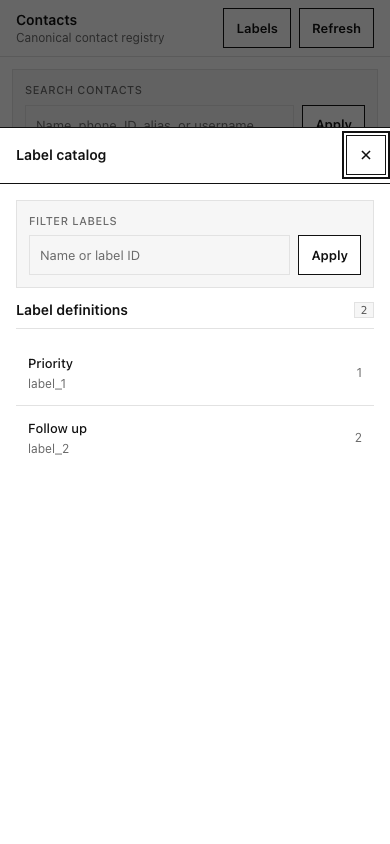
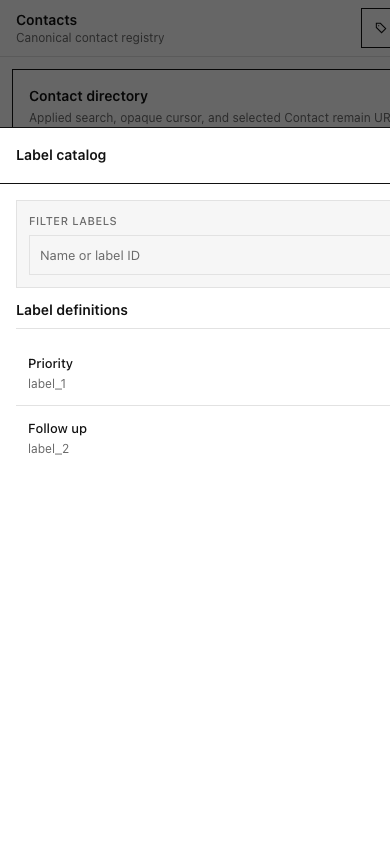
fix: restore labeled refresh actions

diff --git a/src/app/UiGallery.tsx b/src/app/UiGallery.tsx
@@ -205,7 +205,7 @@ export function UiGallery() {
           eyebrow="Locked design system"
           title="UI Gallery"
           description="Manga · ink on white paper · dense · square · semantic screentone · hard lift only."
-          secondaryActions={<IconButton icon="refresh" label="Refresh UI Gallery" />}
+          secondaryActions={<Button>Refresh</Button>}
           primaryAction={<Button variant="primary">Primary action</Button>}
         />
 
@@ -267,11 +267,10 @@ export function UiGallery() {
             <Button aria-busy>Working…</Button>
             <ButtonLink to="/__ui">Button link</ButtonLink>
             <CloseButton label="Close example" onClick={() => undefined} />
-            <IconButton icon="refresh" label="Refresh example" />
             <IconButton icon="search" label="Search example" />
             <IconButton icon="panel-right" label="Open details example" />
             <IconButton icon="copy" label="Copy example" />
-            <IconButton icon="refresh" label="Refreshing example" busy />
+            <Button aria-busy>Refreshing…</Button>
             <Button onClick={() => setDrawer(true)}>Open drawer</Button>
             <Button onClick={() => setDialogMode('ready')}>Open dialog</Button>
             <Button onClick={() => setDialogMode('pending')}>Pending dialog</Button>
@@ -579,11 +578,11 @@ export function UiGallery() {
               eyebrow="Messaging"
               title={<span className="inline-flex items-center gap-2">Conversations<CountBadge count={217} /></span>}
               description="Review projected history and submit outbound messages."
-              secondaryActions={<IconButton icon="refresh" label="Refresh conversations" />}
+              secondaryActions={<Button>Refresh</Button>}
               compactTitle={workspaceDetail ? 'conversation_01' : <span className="inline-flex items-center gap-2">Conversations<CountBadge count={217} /></span>}
               compactDescription={workspaceDetail ? 'Projected detail' : undefined}
               compactLeadingAction={workspaceDetail ? <IconButton icon="arrow-left" label="Back to conversations" onClick={() => { setWorkspaceDetail(false); setConversationDetailsOpen(false); }} /> : undefined}
-              compactActions={<IconButton icon="refresh" label="Refresh conversations" />}
+              compactActions={<Button>Refresh</Button>}
             >
               <ResponsiveInspector
                 open={conversationDetailsOpen}
@@ -620,13 +619,13 @@ export function UiGallery() {
               eyebrow="Messaging"
               title={<span className="inline-flex items-center gap-2">Contacts<CountBadge count={contactsFixture.length} /></span>}
               description="Inspect canonical contacts and consult projected label definitions."
-              secondaryActions={<><IconButton icon="tag" label="Open Label catalog" onClick={() => setDirectoryLabelsOpen(true)} /><IconButton icon="refresh" label="Refresh contacts" /></>}
+              secondaryActions={<><IconButton icon="tag" label="Open Label catalog" onClick={() => setDirectoryLabelsOpen(true)} /><Button>Refresh</Button></>}
               compactTitle={directorySelection ? contactsFixture.find((item) => item.id === directorySelection)?.displayName ?? 'Contact details' : 'Contacts'}
               compactDescription={directorySelection ? 'Projected contact identity' : 'Canonical projected identities'}
               compactLeadingAction={directorySelection ? <IconButton icon="arrow-left" label="Back to contacts" onClick={() => setDirectorySelection(undefined)} /> : undefined}
-              compactActions={<><IconButton icon="tag" label="Open Labels" onClick={() => setDirectoryLabelsOpen(true)} /><IconButton icon="refresh" label="Refresh contacts" /></>}
+              compactActions={<><IconButton icon="tag" label="Open Labels" onClick={() => setDirectoryLabelsOpen(true)} /><Button>Refresh</Button></>}
             >
-              <div className="min-h-0 flex-1 overflow-y-auto p-4"><ContactTable items={contactsFixture} selectedId={directorySelection} onSelect={(id) => { setDirectoryLabelsOpen(false); setDirectorySelection(id); }} /></div>
+              <div className="min-h-0 flex-1 overflow-y-auto p-4"><Panel title="Contact directory" description="Applied search, opaque cursor, and selected Contact remain URL-addressable." bodyPadding="none"><ContactTable className="border-0" items={contactsFixture} selectedId={directorySelection} onSelect={(id) => { setDirectoryLabelsOpen(false); setDirectorySelection(id); }} /></Panel></div>
               <Drawer open={directoryLabelsOpen || Boolean(directorySelection)} onClose={() => { if (directoryLabelsOpen) { setDirectoryLabelsOpen(false); setDirectoryLabelSelection(undefined); } else setDirectorySelection(undefined); }} title={directoryLabelsOpen ? labelsFixture.find((item) => item.id === directoryLabelSelection)?.name ?? 'Label catalog' : contactsFixture.find((item) => item.id === directorySelection)?.displayName ?? 'Contact details'}>
                 {directoryLabelsOpen ? directoryLabelSelection ? <div className="grid gap-4"><IconButton icon="arrow-left" label="Back to labels" onClick={() => setDirectoryLabelSelection(undefined)} /><DirectoryDetails label={labelsFixture.find((item) => item.id === directoryLabelSelection)} loading={false} onRetry={() => {}} /></div> : <div className="grid gap-3"><div className="flex items-center justify-between border-b border-line pb-2"><strong className="text-sm">Label definitions</strong><CountBadge count={labelsFixture.length} /></div><LabelList items={labelsFixture} onSelect={setDirectoryLabelSelection} /></div> : <DirectoryDetails contact={contactsFixture.find((item) => item.id === directorySelection)} loading={false} onRetry={() => {}} />}
               </Drawer>
@@ -636,7 +635,7 @@ export function UiGallery() {
 
         <Section title="Implementation recipes">
           <div className="grid gap-4 md:grid-cols-2">
-            <Panel title="List" description="Filter → state → rows → cursor." actions={<IconButton icon="refresh" label="Refresh list" />}>
+            <Panel title="List" description="Filter → state → rows → cursor." actions={<Button>Refresh</Button>}>
               <p className="text-sm text-fg-2">Use the complete list recipe above for every paginated projection.</p>
             </Panel>
             <Panel title="Inspector" description="Selection opens a bounded detail surface." actions={<IconButton icon="panel-right" label="Inspect item" onClick={() => setDrawer(true)} />}>

diff --git a/src/features/directory/DirectoryPage.tsx b/src/features/directory/DirectoryPage.tsx
@@ -5,7 +5,7 @@ import { useServerCapabilities } from '@/api/CapabilitiesProvider';
 import { omitSearchParams, updateSearchParams, withSearchParams } from '@/lib/url-search-state';
 import { useInvalidCursorReset } from '@/lib/useInvalidCursorReset';
 import { ProjectionFailureNotice as FailureNotice, ProjectionStatus } from '@/components/ProjectionReadState';
-import { CountBadge, CursorPagination, Drawer, Field, FilterToolbar, IconButton, Input, PageHeader, StateNotice, WorkspacePageFrame } from '@/ui';
+import { Button, CountBadge, CursorPagination, Drawer, Field, FilterToolbar, IconButton, Input, PageHeader, Panel, StateNotice, WorkspacePageFrame } from '@/ui';
 import { DirectoryDetails } from './Details';
 import { ContactTable, LabelList } from './DirectoryView';
 import { useContact, useContacts, useLabel, useLabels } from './hooks';
@@ -111,31 +111,31 @@ export function ContactsPage() {
       eyebrow="Messaging"
       title={<span className="inline-flex items-center gap-2">Contacts{typeof contacts.data?.resource.total === 'number' ? <CountBadge count={contacts.data.resource.total} /> : null}</span>}
       description="Inspect canonical contacts and consult projected label definitions."
-      secondaryActions={<><IconButton icon="tag" label="Open Label catalog" onClick={openLabels} /><IconButton icon="refresh" label="Refresh contacts" disabled={!contactsReady} busy={contactsRefreshing} onClick={refreshPage} /></>}
+      secondaryActions={<><IconButton icon="tag" label="Open Label catalog" onClick={openLabels} /><Button disabled={!contactsReady} aria-busy={contactsRefreshing || undefined} onClick={refreshPage}>Refresh</Button></>}
       compactTitle="Contacts"
       compactDescription="Canonical projected identities"
-      compactActions={<><IconButton icon="tag" label="Open Labels" onClick={openLabels} /><IconButton icon="refresh" label="Refresh contacts" disabled={!contactsReady} busy={contactsRefreshing} onClick={refreshContacts} /></>}
+      compactActions={<><IconButton icon="tag" label="Open Labels" onClick={openLabels} /><Button disabled={!contactsReady} aria-busy={contactsRefreshing || undefined} onClick={refreshContacts}>Refresh</Button></>}
     >
       <div className="min-h-0 flex-1 overflow-y-auto overscroll-y-contain p-4 max-sm:p-3">
-        <div className="grid gap-3">
-          <FilterToolbar as="form" className="border" onSubmit={(event) => { event.preventDefault(); applySearch(); }}>
+        <Panel title="Contact directory" description="Applied search, opaque cursor, and selected Contact remain URL-addressable." bodyPadding="none">
+          <FilterToolbar as="form" onSubmit={(event) => { event.preventDefault(); applySearch(); }}>
             <Field label="Search contacts" className="min-w-48 flex-1">
               {(id) => <Input id={id} type="search" value={searchDraft} placeholder="Name, phone, ID, alias, or username" onChange={(event) => setSearchDraft(event.target.value)} />}
             </Field>
             <div className="flex items-end"><IconButton type="submit" icon="search" label="Apply contact search" disabled={searchDraft.trim() === route.search} /></div>
           </FilterToolbar>
-          {!contactsSupported ? <StateNotice kind="empty" title="Projection unavailable" detail="The backend does not currently advertise contacts_projection; capability polling continues because the projection may be unsupported or waiting for readiness." /> : null}
-          {contactsSupported && !contactsReady ? <StateNotice kind="empty" title="Capability changed" detail="Keeping the last usable Contact projection snapshot visible." /> : null}
-          {contactsSupported && contacts.isPending ? <StateNotice kind="loading" title="Loading contacts" /> : null}
-          {contactsSupported && contacts.error && !contacts.data ? <FailureNotice error={contacts.error} onRetry={refreshContacts} /> : null}
+          {!contactsSupported ? <div className="p-4"><StateNotice kind="empty" title="Projection unavailable" detail="The backend does not currently advertise contacts_projection; capability polling continues because the projection may be unsupported or waiting for readiness." /></div> : null}
+          {contactsSupported && !contactsReady ? <div className="p-4"><StateNotice kind="empty" title="Capability changed" detail="Keeping the last usable Contact projection snapshot visible." /></div> : null}
+          {contactsSupported && contacts.isPending ? <div className="p-4"><StateNotice kind="loading" title="Loading contacts" /></div> : null}
+          {contactsSupported && contacts.error && !contacts.data ? <div className="p-4"><FailureNotice error={contacts.error} onRetry={refreshContacts} /></div> : null}
           {contactsSupported && contacts.data ? <>
-            {contacts.error ? <FailureNotice error={contacts.error} stale onRetry={refreshContacts} /> : null}
-            <ProjectionStatus meta={contacts.data.meta} />
-            <ContactTable items={contacts.data.resource.items} selectedId={contactId} onSelect={selectContact} />
-            {contactsEmpty ? <StateNotice kind="empty" title="No contacts" detail={route.search ? 'No projected Contact matches the URL-backed search.' : 'The ready Contact projection contains no items.'} /> : null}
+            {contacts.error ? <div className="p-4"><FailureNotice error={contacts.error} stale onRetry={refreshContacts} /></div> : null}
+            <div className="px-4"><ProjectionStatus meta={contacts.data.meta} /></div>
+            <ContactTable className="border-0" items={contacts.data.resource.items} selectedId={contactId} onSelect={selectContact} />
+            {contactsEmpty ? <div className="p-4"><StateNotice kind="empty" title="No contacts" detail={route.search ? 'No projected Contact matches the URL-backed search.' : 'The ready Contact projection contains no items.'} /></div> : null}
             <CursorPagination cursor={route.cursor} nextCursor={contacts.data.resource.pagination.nextCursor ?? undefined} info={`${contacts.data.resource.items.length} shown on this page`} onCursor={(cursor) => replaceContactList(updateSearchParams(searchParams, { cursor }))} />
           </> : null}
-        </div>
+        </Panel>
       </div>
       <Drawer
         open={labelsOpen || Boolean(contactId)}

diff --git a/src/app/PreviewDirectory.tsx b/src/app/PreviewDirectory.tsx
@@ -1,7 +1,7 @@
 import { useMemo, useState } from 'react';
 import { ContactTable, LabelList } from '@/features/directory/DirectoryView';
 import { DirectoryDetails } from '@/features/directory/Details';
-import { CountBadge, CursorPagination, Drawer, Field, FilterToolbar, IconButton, Input, WorkspacePageFrame } from '@/ui';
+import { Button, CountBadge, CursorPagination, Drawer, Field, FilterToolbar, IconButton, Input, Panel, WorkspacePageFrame } from '@/ui';
 import { contactsFixture, labelsFixture } from './preview-fixtures';
 
 /** Dev-only: full-width Contacts registry with the projected Label catalog open. */
@@ -32,12 +32,12 @@ export function PreviewDirectory() {
   );
   return (
     <main className="h-dvh overflow-hidden bg-bg">
-      <WorkspacePageFrame eyebrow="Messaging" title={<span className="inline-flex items-center gap-2">Contacts<CountBadge count={contactsFixture.length} /></span>} description="Search and inspect canonical contact records." secondaryActions={<><IconButton icon="tag" label="Open Label catalog" onClick={() => setLabelsOpen(true)} /><IconButton icon="refresh" label="Refresh contacts" /></>} compactTitle="Contacts" compactDescription="Canonical contact registry" compactActions={<><IconButton icon="tag" label="Open Labels" onClick={() => setLabelsOpen(true)} /><IconButton icon="refresh" label="Refresh contacts" /></>}>
-        <div className="min-h-0 flex-1 overflow-y-auto p-4 max-sm:p-3"><div className="grid gap-3">
-          <FilterToolbar as="form" className="border" onSubmit={(event) => event.preventDefault()}><Field label="Search contacts" className="min-w-48 flex-1">{(id) => <Input id={id} type="search" value={search} placeholder="Name, phone, ID, alias, or username" onChange={(event) => setSearch(event.target.value)} />}</Field><div className="flex items-end"><IconButton type="submit" icon="search" label="Apply contact search" /></div></FilterToolbar>
-          <ContactTable items={contacts} selectedId={contactId} onSelect={(id) => { setLabelsOpen(false); setContactId(id); }} />
+      <WorkspacePageFrame eyebrow="Messaging" title={<span className="inline-flex items-center gap-2">Contacts<CountBadge count={contactsFixture.length} /></span>} description="Search and inspect canonical contact records." secondaryActions={<><IconButton icon="tag" label="Open Label catalog" onClick={() => setLabelsOpen(true)} /><Button>Refresh</Button></>} compactTitle="Contacts" compactDescription="Canonical contact registry" compactActions={<><IconButton icon="tag" label="Open Labels" onClick={() => setLabelsOpen(true)} /><Button>Refresh</Button></>}>
+        <div className="min-h-0 flex-1 overflow-y-auto p-4 max-sm:p-3"><Panel title="Contact directory" description="Applied search, opaque cursor, and selected Contact remain URL-addressable." bodyPadding="none">
+          <FilterToolbar as="form" onSubmit={(event) => event.preventDefault()}><Field label="Search contacts" className="min-w-48 flex-1">{(id) => <Input id={id} type="search" value={search} placeholder="Name, phone, ID, alias, or username" onChange={(event) => setSearch(event.target.value)} />}</Field><div className="flex items-end"><IconButton type="submit" icon="search" label="Apply contact search" /></div></FilterToolbar>
+          <ContactTable className="border-0" items={contacts} selectedId={contactId} onSelect={(id) => { setLabelsOpen(false); setContactId(id); }} />
           <CursorPagination nextCursor="contacts-next" info={`${contacts.length} shown on this page`} onCursor={() => {}} />
-        </div></div>
+        </Panel></div>
         <Drawer open={labelsOpen || Boolean(contactId)} onClose={closeDrawer} title={labelsOpen ? label?.name ?? 'Label catalog' : contact?.displayName ?? 'Contact details'} subtitle={labelsOpen ? label?.id : contact?.id}>
           {labelsOpen ? labelCatalog : contact ? <DirectoryDetails contact={contact} loading={false} onRetry={() => {}} /> : null}
         </Drawer>

diff --git a/src/app/PreviewConversations.tsx b/src/app/PreviewConversations.tsx
@@ -6,7 +6,7 @@ import { ConversationDetailsContent } from '@/features/conversations/Details';
 import { ConversationMediaPlaceholder } from '@/features/conversations/Media';
 import { buildParticipantDisplayIndex } from '@/features/conversations/participant-identity';
 import { humanizeToken, relativeTime } from '@/lib/format';
-import { CountBadge, Field, FilterToolbar, IconButton, Image, Input, ResponsiveInspector, SplitWorkspace, useWorkspacePageFocus, WorkspacePageFrame, WorkspacePaneHeader } from '@/ui';
+import { Button, CountBadge, Field, FilterToolbar, IconButton, Image, Input, ResponsiveInspector, SplitWorkspace, useWorkspacePageFocus, WorkspacePageFrame, WorkspacePaneHeader } from '@/ui';
 import { contactsFixture, conversationsFixture, messagesFixture } from './preview-fixtures';
 
 const participantDisplayIndex = buildParticipantDisplayIndex(contactsFixture);
@@ -26,11 +26,11 @@ export function PreviewConversations() {
         eyebrow="Messaging"
         title={<span className="inline-flex items-center gap-2">Conversations<CountBadge count={217} /></span>}
         description="Review projected history and submit outbound messages."
-        secondaryActions={<IconButton icon="refresh" label="Refresh conversations" />}
+        secondaryActions={<Button>Refresh</Button>}
         compactTitle={conversation?.displayName ?? <span className="inline-flex items-center gap-2">Conversations<CountBadge count={217} /></span>}
         compactDescription={conversation ? `${humanizeToken(conversation.type)} · Last activity ${conversation.lastActivityAt ? relativeTime(conversation.lastActivityAt) : 'unreported'}` : undefined}
         compactLeadingAction={conversation ? <IconButton icon="arrow-left" label="Back to conversations" onClick={() => setConversationId(undefined)} /> : undefined}
-        compactActions={conversation ? <><IconButton icon="refresh" label="Refresh conversation" /><IconButton icon="panel-right" label="Open conversation details" onClick={() => setDetailsOpen(true)} /></> : <IconButton icon="refresh" label="Refresh conversations" />}
+        compactActions={conversation ? <><Button>Refresh</Button><IconButton icon="panel-right" label="Open conversation details" onClick={() => setDetailsOpen(true)} /></> : <Button>Refresh</Button>}
         compactHeadingRef={compactHeadingRef}
       >
         <ResponsiveInspector

diff --git a/src/features/directory/DirectoryView.tsx b/src/features/directory/DirectoryView.tsx
@@ -18,18 +18,17 @@ function ResourceButton({ selected, onClick, primary, secondary, trailing }: { s
     </li>
   );
 }
-export function ContactTable({ items, selectedId, onSelect }: { items: ContactResource[]; selectedId?: string; onSelect: (id: string) => void }) {
+export function ContactTable({ items, selectedId, onSelect, className }: { items: ContactResource[]; selectedId?: string; onSelect: (id: string) => void; className?: string }) {
   return (
-    <Table>
-      <thead><tr><Th>Contact</Th><Th>Phone</Th><Th priority="supporting">Identity</Th><Th>WhatsApp</Th><Th priority="detail">Updated</Th><Th priority="detail">Contact ID</Th></tr></thead>
+    <Table className={className}>
+      <thead><tr><Th>Contact</Th><Th>Phone</Th><Th priority="supporting">Identity</Th><Th>WhatsApp</Th><Th priority="detail">Updated</Th></tr></thead>
       <tbody>{items.map((item) => (
         <Tr key={item.id} selected={item.id === selectedId} onClick={() => onSelect(item.id)}>
-          <Td mobileLabel="Contact" className="font-medium">{item.displayName ?? item.phoneNumber ?? 'Unknown contact'}</Td>
+          <Td mobileLabel="Contact"><div className="grid gap-0.5"><span className="font-medium">{item.displayName ?? item.phoneNumber ?? 'Unknown contact'}</span><small className="font-mono text-xs text-fg-3">{item.id}</small></div></Td>
           <Td mobileLabel="Phone" className="font-mono text-xs text-fg-2">{item.phoneNumber ?? item.redactedPhone ?? 'Not reported'}</Td>
           <Td mobileLabel="Identity" priority="supporting"><Status tone={item.identityStatus === 'complete' ? 'ok' : item.identityStatus === 'partial' ? 'pending' : 'neutral'}>{humanizeToken(item.identityStatus)}</Status></Td>
           <Td mobileLabel="WhatsApp"><Status tone={item.found === true ? 'ok' : 'neutral'}>{item.found === undefined ? 'Unreported' : item.found ? 'Found' : 'Not found'}</Status></Td>
           <Td mobileLabel="Updated" priority="detail" className="text-fg-2">{item.identityUpdatedAt ? <time dateTime={item.identityUpdatedAt} title={item.identityUpdatedAt}>{relativeTime(item.identityUpdatedAt) || item.identityUpdatedAt}</time> : 'Not reported'}</Td>
-          <Td mobileLabel="Contact ID" priority="detail" className="font-mono text-xs text-fg-2">{item.id}</Td>
         </Tr>
       ))}</tbody>
     </Table>

diff --git a/src/ui/IconButton.tsx b/src/ui/IconButton.tsx
@@ -1,7 +1,17 @@
-import { useId, useLayoutEffect, useRef, useState, type ButtonHTMLAttributes } from 'react';
+import { useEffect, useId, useLayoutEffect, useRef, useState, type ButtonHTMLAttributes } from 'react';
 import { buttonClassName, type ButtonVariant } from './Button';
 import { cn } from './cn';
 import { Icon, type IconName } from './Icon';
+
+let keyboardModality = false;
+let modalityListenersInstalled = false;
+
+function installModalityListeners() {
+  if (modalityListenersInstalled) return;
+  modalityListenersInstalled = true;
+  window.addEventListener('keydown', () => { keyboardModality = true; }, true);
+  window.addEventListener('pointerdown', () => { keyboardModality = false; }, true);
+}
 
 export function IconButton({
   label,
@@ -24,6 +34,8 @@ export function IconButton({
   const [tooltipOpen, setTooltipOpen] = useState(false);
   const [tooltipPosition, setTooltipPosition] = useState({ left: 0, top: 0 });
 
+  useEffect(installModalityListeners, []);
+
   useLayoutEffect(() => {
     if (!tooltipOpen || !buttonRef.current || !tooltipRef.current) return;
     const buttonRect = buttonRef.current.getBoundingClientRect();
@@ -44,7 +56,7 @@ export function IconButton({
     <span
       className="relative inline-flex shrink-0"
       onMouseEnter={() => setTooltipOpen(true)}
-      onMouseLeave={() => setTooltipOpen(false)}
+      onMouseLeave={() => setTooltipOpen(keyboardModality && (buttonRef.current?.matches(':focus-visible') ?? false))}
     >
       <button
         {...props}
@@ -55,7 +67,7 @@ export function IconButton({
         aria-describedby={tooltipId}
         aria-busy={busy || undefined}
         disabled={disabled || busy}
-        onFocus={(event) => { setTooltipOpen(true); props.onFocus?.(event); }}
+        onFocus={(event) => { setTooltipOpen(keyboardModality && event.currentTarget.matches(':focus-visible')); props.onFocus?.(event); }}
         onBlur={(event) => { setTooltipOpen(false); props.onBlur?.(event); }}
         className={buttonClassName(variant, cn('size-9 p-0 max-sm:size-10', className))}
       >

diff --git a/src/features/conversations/ConversationsPage.tsx b/src/features/conversations/ConversationsPage.tsx
@@ -138,13 +138,13 @@ function ConversationWorkspace() {
         eyebrow="Messaging"
         title={pageTitle}
         description="Review projected history and submit outbound messages."
-        secondaryActions={<IconButton icon="refresh" label="Refresh conversations" disabled={!viewSupported} busy={routeRefreshing} onClick={refreshPage} />}
+        secondaryActions={<Button disabled={!viewSupported} aria-busy={routeRefreshing || undefined} onClick={refreshPage}>Refresh</Button>}
         compactTitle={hasConversation ? selectedConversation?.displayName ?? selectedConversation?.phoneNumber ?? (selectedConversation ? `Unknown ${selectedConversation.type} conversation` : 'Message timeline') : pageTitle}
         compactDescription={hasConversation ? (selectedConversation ? `${humanizeToken(selectedConversation.type)} · ${selectedProjectionAttention ?? `Last activity ${selectedConversation.lastActivityAt ? relativeTime(selectedConversation.lastActivityAt) : 'unreported'}`}` : 'Message timeline') : undefined}
         compactLeadingAction={hasConversation ? <IconButton icon="arrow-left" label="Back to conversations" onClick={closeConversation} /> : undefined}
         compactActions={hasConversation && selectedConversation
-          ? <><IconButton icon="refresh" label="Refresh conversation" disabled={!viewSupported} busy={routeRefreshing} onClick={refreshPage} /><IconButton icon="panel-right" label="Open conversation details" onClick={openConversationDetails} /></>
-          : <IconButton icon="refresh" label="Refresh conversations" disabled={!viewSupported} busy={routeRefreshing} onClick={refreshPage} />}
+          ? <><Button disabled={!viewSupported} aria-busy={routeRefreshing || undefined} onClick={refreshPage}>Refresh</Button><IconButton icon="panel-right" label="Open conversation details" onClick={openConversationDetails} /></>
+          : <Button disabled={!viewSupported} aria-busy={routeRefreshing || undefined} onClick={refreshPage}>Refresh</Button>}
         compactHeadingRef={compactHeadingRef}
       >
         <ResponsiveInspector

diff --git a/src/features/groups/GroupListsPage.tsx b/src/features/groups/GroupListsPage.tsx
@@ -55,7 +55,7 @@ export function GroupListsPage() {
   return (
     <>
       <div className="grid gap-6 p-6 max-sm:p-4">
-        <PageHeader eyebrow="Messaging" title="Group Lists" description="Build and maintain reusable group targets for campaigns." secondaryActions={<IconButton icon="refresh" label="Refresh Group Lists" busy={query.isFetching} onClick={() => query.refetch()} />} primaryAction={commandsEnabled ? <ButtonLink to={withSearchParams('/groups/lists/new', directoryParams)} variant="primary">New group list</ButtonLink> : <Button variant="primary" disabled>New group list</Button>} />
+        <PageHeader eyebrow="Messaging" title="Group Lists" description="Build and maintain reusable group targets for campaigns." secondaryActions={<Button aria-busy={query.isFetching || undefined} onClick={() => query.refetch()}>{query.isFetching ? 'Refreshing…' : 'Refresh'}</Button>} primaryAction={commandsEnabled ? <ButtonLink to={withSearchParams('/groups/lists/new', directoryParams)} variant="primary">New group list</ButtonLink> : <Button variant="primary" disabled>New group list</Button>} />
         <GroupSectionTabs />
         {deleteAck ? <StateNotice kind="info" title={`${deleteAck.name} deleted`} detail={deleteAck.result.message || 'The server completed the deletion. Existing campaign snapshots remain unchanged.'} /> : null}
         {!commandsEnabled && query.data ? <StateNotice kind={capabilities.isError ? 'error' : 'empty'} title={capabilities.isError ? 'Showing last known capabilities' : 'Capability changed'} detail="Keeping the last usable list page visible; create, edit, and delete commands remain unavailable until capability discovery is authoritative." /> : null}

diff --git a/src/features/campaigns/CampaignsView.tsx b/src/features/campaigns/CampaignsView.tsx
@@ -1,7 +1,7 @@
 import type { ReactNode } from 'react';
 import type { Campaign, CampaignStatus } from '@/api/campaigns';
 import { humanizeToken, relativeTime } from '@/lib/format';
-import { ButtonLink, CursorPagination, Field, FilterToolbar, IconButton, PageHeader, Panel, Select, StateNotice, Status, Table, Td, Th, Tr, type Tone } from '@/ui';
+import { Button, ButtonLink, CursorPagination, Field, FilterToolbar, PageHeader, Panel, Select, StateNotice, Status, Table, Td, Th, Tr, type Tone } from '@/ui';
 import { CampaignProgressSummary, campaignTargetLabel } from './CampaignProgress';
 
 const statuses: CampaignStatus[] = ['draft', 'scheduled', 'running', 'paused', 'completed', 'aborted', 'failed'];
@@ -41,7 +41,7 @@ export function CampaignsView(props: CampaignsViewProps) {
         eyebrow="Messaging"
         title="Campaigns"
         description="Create and monitor Group List campaigns with factual progress and outcomes."
-        secondaryActions={<IconButton icon="refresh" label="Refresh campaigns" onClick={props.onRefresh} busy={props.refreshing} />}
+        secondaryActions={<Button onClick={props.onRefresh} aria-busy={props.refreshing || undefined}>{props.refreshing ? 'Refreshing…' : 'Refresh'}</Button>}
         primaryAction={props.newHref ? <ButtonLink to={props.newHref} variant="primary">New campaign</ButtonLink> : undefined}
       />
 

diff --git a/src/ui/IconButton.test.tsx b/src/ui/IconButton.test.tsx
@@ -4,20 +4,20 @@ import { IconButton } from './IconButton';
 
 describe('IconButton', () => {
   it('renders one framed glyph with an accessible name and matching tooltip', () => {
-    const html = renderToStaticMarkup(<IconButton icon="refresh" label="Refresh contacts" />);
+    const html = renderToStaticMarkup(<IconButton icon="panel-right" label="Open contact details" />);
 
     expect(html).toContain('type="button"');
-    expect(html).toContain('aria-label="Refresh contacts"');
+    expect(html).toContain('aria-label="Open contact details"');
     expect(html).toContain('aria-describedby=');
     expect(html).toContain('role="tooltip"');
-    expect(html).toContain('Refresh contacts');
+    expect(html).toContain('Open contact details');
     expect(html).toContain('size-9');
     expect(html).toContain('max-sm:size-10');
     expect(html).not.toContain('title=');
   });
 
   it('locks interaction and animates the glyph while busy', () => {
-    const html = renderToStaticMarkup(<IconButton icon="refresh" label="Refreshing events" busy />);
+    const html = renderToStaticMarkup(<IconButton icon="copy" label="Copying request ID" busy />);
 
     expect(html).toContain('aria-busy="true"');
     expect(html).toContain('disabled=""');

diff --git a/src/features/platform/RecoveryView.tsx b/src/features/platform/RecoveryView.tsx
@@ -1,7 +1,7 @@
 import type { FormEvent, ReactNode } from 'react';
 import type { ProjectionFailure } from '@/api/recovery';
 import { humanizeToken, relativeTime } from '@/lib/format';
-import { CursorPagination, Field, FilterToolbar, IconButton, Input, PageHeader, Panel, Select, StateNotice, Table, Td, Th, Tr } from '@/ui';
+import { Button, CursorPagination, Field, FilterToolbar, IconButton, Input, PageHeader, Panel, Select, StateNotice, Table, Td, Th, Tr } from '@/ui';
 
 export function failureIdentity(failure: ProjectionFailure): string {
   return JSON.stringify([failure.instanceId, failure.resource, failure.eventKey]);
@@ -35,7 +35,7 @@ export function RecoveryView(props: RecoveryViewProps) {
         eyebrow="Platform"
         title="Projection recovery"
         description="Review failed projections and submit audited recovery actions."
-        secondaryActions={<IconButton icon="refresh" label="Refresh recovery failures" onClick={props.onRefresh} busy={props.refreshing} />}
+        secondaryActions={<Button onClick={props.onRefresh} aria-busy={props.refreshing || undefined}>{props.refreshing ? 'Refreshing…' : 'Refresh'}</Button>}
       />
 
       {props.notices}

diff --git a/src/features/events/EventsView.tsx b/src/features/events/EventsView.tsx
@@ -1,7 +1,7 @@
 import type { FormEvent, ReactNode } from 'react';
 import type { EventResource } from '@/api/events-api';
 import { relativeTime } from '@/lib/format';
-import { CursorPagination, Field, FilterToolbar, IconButton, Input, PageHeader, Panel, StateNotice, Status, Table, Td, Th, Tr } from '@/ui';
+import { Button, CursorPagination, Field, FilterToolbar, IconButton, Input, PageHeader, Panel, StateNotice, Status, Table, Td, Th, Tr } from '@/ui';
 
 export function retentionLabel(seconds?: number) {
   if (!seconds) return 'Retention unreported';
@@ -37,7 +37,7 @@ export function EventsView(props: EventsViewProps) {
         eyebrow="Observability"
         title="Events"
         description="Inspect durable operational events and audit context."
-        secondaryActions={<IconButton icon="refresh" label="Refresh events" onClick={props.onRefresh} busy={props.refreshing} />}
+        secondaryActions={<Button onClick={props.onRefresh} aria-busy={props.refreshing || undefined}>{props.refreshing ? 'Refreshing…' : 'Refresh'}</Button>}
       />
 
       <div className="flex flex-wrap items-center gap-x-6 gap-y-2 p-3 border border-line bg-surface">
